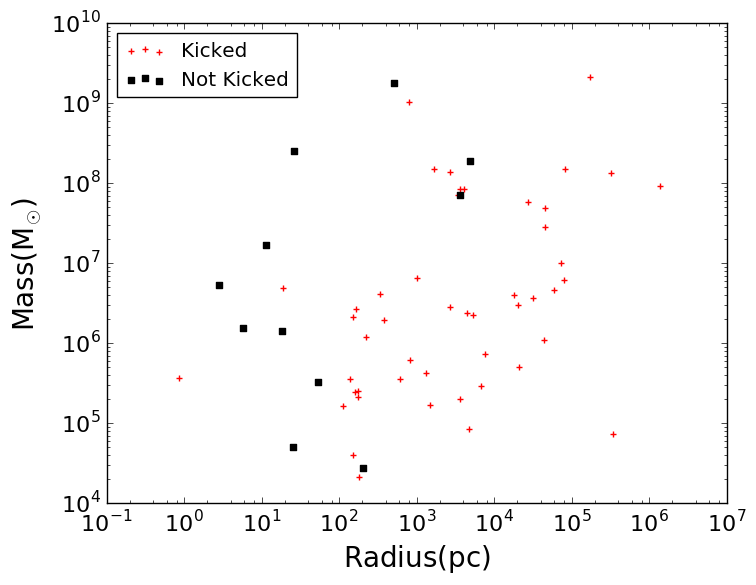
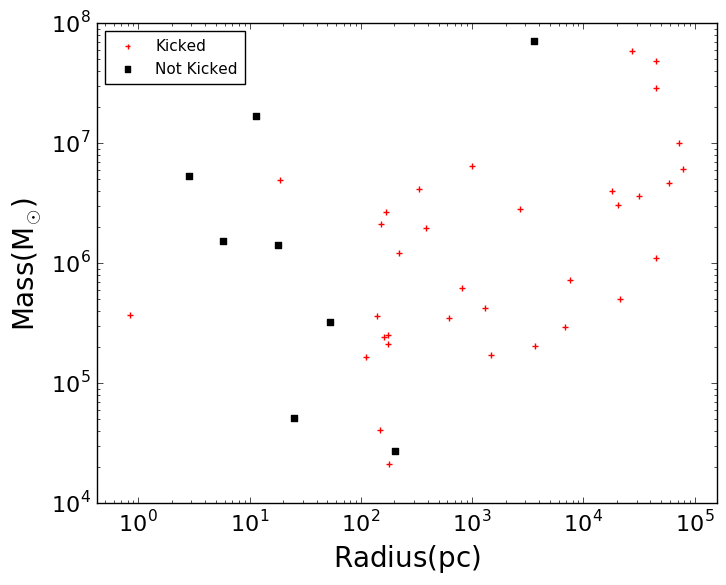
Modified most plots to reflect removing galaxies 1 and 51.  Also included more Jerry edits.

diff --git a/paper.tex b/paper.tex
@@ -63,7 +63,7 @@
 
 
 \begin{abstract}
-We perform N-body simulations on 13 galaxies extracted from a cosmological simulation of hierarchical structure formation with total mass $10^{12} \msun < M < 10^{13} \msun$ from $4 \ge z \ge 0$.  We track the dynamical evolution of the orbiting black holes (BHs) around their host central BH.  Of the 120 orbiting BHs, we find that 50 merge with their host central BHs, 11 are ejected from their respective host galaxies, 59 are still orbiting at the end of the simulations.  Across all galaxies, 48 BHs are kicked to a higher orbit after close interaction with the central BH, after which none of them merge with their hosts.  We calculate the x-ray luminosities of the orbiting BHs at z=0, and find a range of $10^{18}-10^{37}$ $erg\ s^{-1}$.
+We perform N-body simulations on 13 galaxies extracted from a cosmological simulation of hierarchical structure formation with total mass in the range $10^{12} \msun < M < 10^{13} \msun$ from $4 \ge z \ge 0$.  We track the dynamical evolution of the orbiting black holes (BHs) around their host central BH.  Of the 120 orbiting BHs, we find that 50 merge with their host central BHs, 11 are ejected from their respective host galaxies, 59 are still orbiting at the end of the simulations.  Across all galaxies, 48 BHs are kicked to a higher orbit after close interaction with the central BH, after which none of them merge with their hosts.  We calculate the x-ray luminosities of the orbiting massive BHs at z=0, and find a range of $10^{18}-10^{37}$ $erg\ s^{-1}$.
 \end{abstract}
 
 
@@ -74,6 +74,8 @@ We perform N-body simulations on 13 galaxies extracted from a cosmological simul
 
 \section{Introduction}\label{sec:introduction}
 What happens to the massive black holes centrally located in galaxies when those galaxies merge with others?  There are three possibilities: they merge, they are ejected, or they remain in orbit in the merged galaxy.  Combinations of these options are also possible with the spin induced kick at merger leading to an ejection or extended orbit of the merged black hole.  We now know from pulsar timing measurements (ADD REFERENCES) that the gravitational wave background is probably too low for most galaxy mergers (mass-weighted) (but see \cite{2018NatCo...9..573M}) to lead to BH mergers, but the outcome remains uncertain.  We will argue in this paper that a very common outcome--especially for the lower mass black holes--is for the injected objects to remain as orbiting X-ray sources in normal massive galaxies waiting to be identified by current observational techniques.
+
+There is no "final parsec problem," and the opposite problem of too many BH mergers is also avoided when it is realized that we are dealing with a small N-body system rather than a series of two-body problems.
 
 How common are mergers of massive black holes?  For the galaxies themselves we know that minor mergers are frequent from the observed (\citet{2010ApJ...718L..73V}, \citet{2008ApJ...677L...5V}, \citet{2019MNRAS.484..595M}) evolution of the size and mass of these systems, but assuming that all galaxy mergers lead to SMBH mergers overpredicts the observations of gravitational waves from the pulsar timing arrays (PTAs) (\citet{2008MNRAS.390..192S}, \citet{2009MNRAS.394.2255S}, \citet{2013MNRAS.433L...1S}, \citet{2014ApJ...789..156M}, \citet{2015ApJ...799..178K}, \citet{2018ApJ...856...42S}, \citet{2018arXiv180403143I}).  However, we do not often see multiple SMBHs at the centers of massive ellipticals.  So, what does happen?  One paper (\citet{2018MNRAS.473.3410R}) has indicated that dynamical interactions among multiple black holes, which eject a non-negligible fraction of the mass, may solve this problem.  The present paper also addresses this purported dynamical solution, focusing attention on the large fraction of lower mass black holes that remain to be detected as they orbit in massive galaxies.  What we argue in this paper is that, as a result of the N-body interactions among the infalling black holes, some are ejected, some remain in extended orbits and some (the few most massive ones) do in fact merge, but these do not exceed the PTA limits, and the orbiting ones should be detectable via their ability to accrete gas and emit radiation.
 
@@ -148,8 +150,6 @@ We also compared the stellar masses from Lackner\-(+12) to  observational and ab
 \hline
 $M_{DM}$ & $M_{CBH}$ & $M_{*} (orig.)$ & $M_{*} (rescaled)$ \\
 \hline
- \num{9.18e13} 	&	 \num{2.19e9} 	&	\num{1.75e13} 	&	\num{5.14e11}  \\
- \num{7.75e13} 	&	 \num{5.27e9}	&	\num{1.52e13} 	&	\num{4.00e11}  \\
  \num{2.85e13} 	&	 \num{1.46e9}	&	\num{5.58e12} 	&	\num{3.30e11}  \\
  \num{2.48e13} 	&	 \num{2.40e9}	&	\num{4.80e12} 	&	\num{2.25e11}  \\
  \num{2.29e13} 	&	 \num{1.22e9}	&	\num{4.46e12} 	&	\num{2.68e11}  \\
@@ -251,16 +251,6 @@ Here we review the primary results of our simulations, focusing on the various i
 
 \subsection{Mergers, Ejections and Kicks}
 
-Figure \ref{fig:fmeo}
-
-\begin{figure}[ht]
-\begin{center}
-\includegraphics[width=0.45\textwidth]{"plots/Fractions All Galaxies".png}
-\caption{Fractions Merged/Ejected/Orbiting at z=0, by mass bin}
-\label{fig:fmeo}
-\end{center}
-\end{figure}
-
 \begin{figure}[ht]
 \begin{center}
 \includegraphics[width=0.45\textwidth]{plots/"Summary Results All Galaxies".png}
@@ -289,7 +279,7 @@ The integral evaluates to ${\pi}r_c^3/16$.  $m_p$ is the mass of a proton and $\
 
 \begin{figure}[htp]
 \begin{center}
-\includegraphics[width=1.0\columnwidth]{plots/Lx_our_Galaxies_compared_to_Babyk_data.png}
+\includegraphics[width=1.0\columnwidth]{plots/"Lx of our Galaxies compared to Babyk data".png}
 \caption{X-ray luminosity of gas in our galaxies, compared to those from \citet{2018ApJ...857...32B}.}
 \label{fig:galgas1}
 \end{center}
@@ -336,7 +326,7 @@ The Eddington limit is defined as:
 
 \begin{figure}[htp]
 \begin{center}
-\includegraphics[width=1.0\columnwidth]{plots/radiative_efficiency.png}
+\includegraphics[width=1.0\columnwidth]{plots/"radiative efficiency".png}
 \caption{Radiative efficiency of Orbiting Black Holes at z=0}
 \label{fig:rad_eff}
 \end{center}
